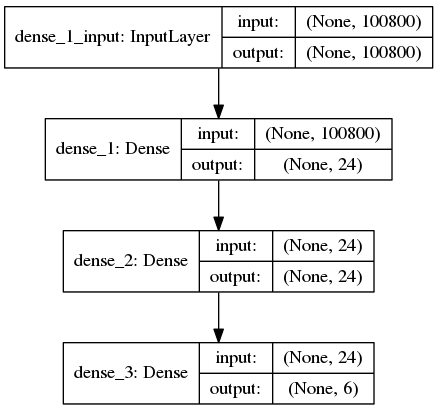
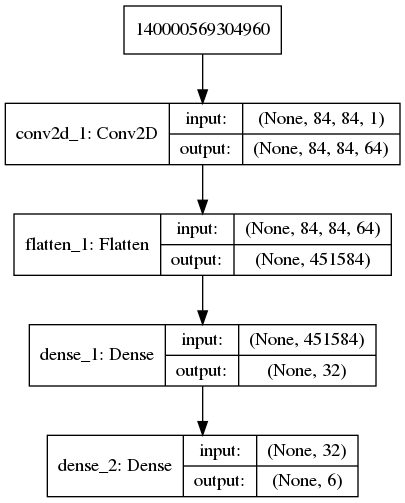
fixed inpit issue on network

Changed region(s): [[0.0, 0.0, 1.0, 0.9927]]

diff --git a/Agent.py b/Agent.py
@@ -4,6 +4,8 @@ import numpy as np
 from collections import deque
 from keras.models import Sequential
 from keras.layers import Dense
+from keras.layers import Conv2D
+from keras.layers import Flatten
 from keras.optimizers import Adam
 from keras.utils import plot_model
 
@@ -23,37 +25,41 @@ class Agent:
 
     def makeModel(self):
         model = Sequential()
-        model.add(Dense(24,input_shape = self.states.shape,activation = 'relu'))
-        model.add(Dense(24,activation = 'relu'))
-        model.add(Dense(self.actions, activation = 'softmax'))
+        model.add(Conv2D(64,3,3, border_mode='same',input_shape = (84,84,1),activation = 'relu'))
+        model.add(Flatten())
+        model.add(Dense(32,activation = 'relu'))
+        model.add(Dense(self.actions, activation = 'linear'))
         model.compile(loss = 'mean_squared_error',optimizer = Adam(lr = self.learningRate))
         model.summary()
-        plot_model(model, to_file='model_plot.png', show_shapes=True, 
+        plot_model(model, to_file='model_plot.png', show_shapes=True,
                    show_layer_names=True)
-        #model.predict(np.zeros((1000,100800)))
+        #print("model")
+        #model.predict(np.zeros((1,84,84,1)))
         return model
-    
+
     def act(self,state):
-        if np.random.rand() <= self.epsilon:
-            return random.randrange(self.actions)
+        #if np.random.rand() <= self.epsilon:
+            #return random.randrange(self.actions)
         actionList = self.model.predict(np.array([state]))
+        #print ("action list")
+        #print (actionList.shape)
         return np.argmax(actionList[0])
-    
+
     def addToMemory(self,state,action,reward,nextState,done):
         self.memory.append((state,action,reward,nextState,done))
-        
+
     def replay(self, batchSize):
         batch = random.sample(self.memory,batchSize)
         for state,action,reward,nextState,done in batch:
             target = reward
-
+            #print ("Next State")
+            #print (nextState.shape)
             if not done:
                target = (reward + self.gamma * np.amax(self.model.
                                         predict(np.array([nextState]))))
-            
+
             result = self.model.predict(np.array([state]))
             result[0][action] = target
             self.model.fit(np.array([state]),result,epochs=1,verbose=0)
         if self.epsilon > self.epsilonMini:
             self.epsilon *= self.epsilonDecay
-        

diff --git a/Main.py b/Main.py
@@ -1,40 +1,55 @@
 import random
 import gym
 import numpy as np
+import cv2
 from tensorflow.python.client import device_lib
 from Agent import Agent
 print(device_lib.list_local_devices())
 
-Episodes = 100
-Trials = 1000
+def updateImage(state):
+    state = cv2.cvtColor(cv2.resize(state,(84,110)),cv2.COLOR_BGR2GRAY)
+    #remove the first 26 layers
+    state = state[26:110,:]
+    _,state = cv2.threshold(state, 1,255,cv2.THRESH_BINARY)
+    #print(state.shape)
+    state = np.reshape(state,(84,84,1))
+    return state#.reshape(1,state.shape[0],state.shape[1],state.shape[2])
+
+Episodes = 1000
+Trials = 500
 env = gym.make('SpaceInvaders-v0')
 
-states = env.observation_space.sample()# shape
-states = np.array(states).flatten()
-print states.shape
+states = env.observation_space.shape
+
 actions = env.action_space.n
+#print(actions)
 agent = Agent(states,actions)
 done = False
-batchSize = 1
+batchSize = 32
 
 for i in range (Episodes):
-    state = env.reset().flatten()
-    #state = np.reshape(state,[1, states])
-    for p in range (Trials):
-        #print state.shape
+    state = env.reset()
+    state = updateImage(state)
+    #print ("State shape")
+    #print (state.shape)
+
+
+    while not done:
+        #print (state.shape)
         env.render()
         action = agent.act(state)
-        nextState,reward,done,_   = env.step(action)
-        nextState = np.array(nextState).flatten()
-        reward = reward if not done else +10
-        
+        nextState,reward,done,inf   = env.step(action)
+        nextState = updateImage(nextState)
+        #print("next state")
+        #print(len(state))
+        #reward = reward if not done else 0.01
         #nextState = np.reshape(nextState,[1,states])
         agent.addToMemory(state,action,reward,nextState,done)
         state = nextState
         if done:
             print("episode {}/{}, score : {}, e: {:.2}".format(i,
-                      Episodes,p,agent.epsilon))
+                      Episodes,reward,agent.epsilon))
             break
         if len(agent.memory) > batchSize:
                 agent.replay(batchSize)
-    
+    done = False
